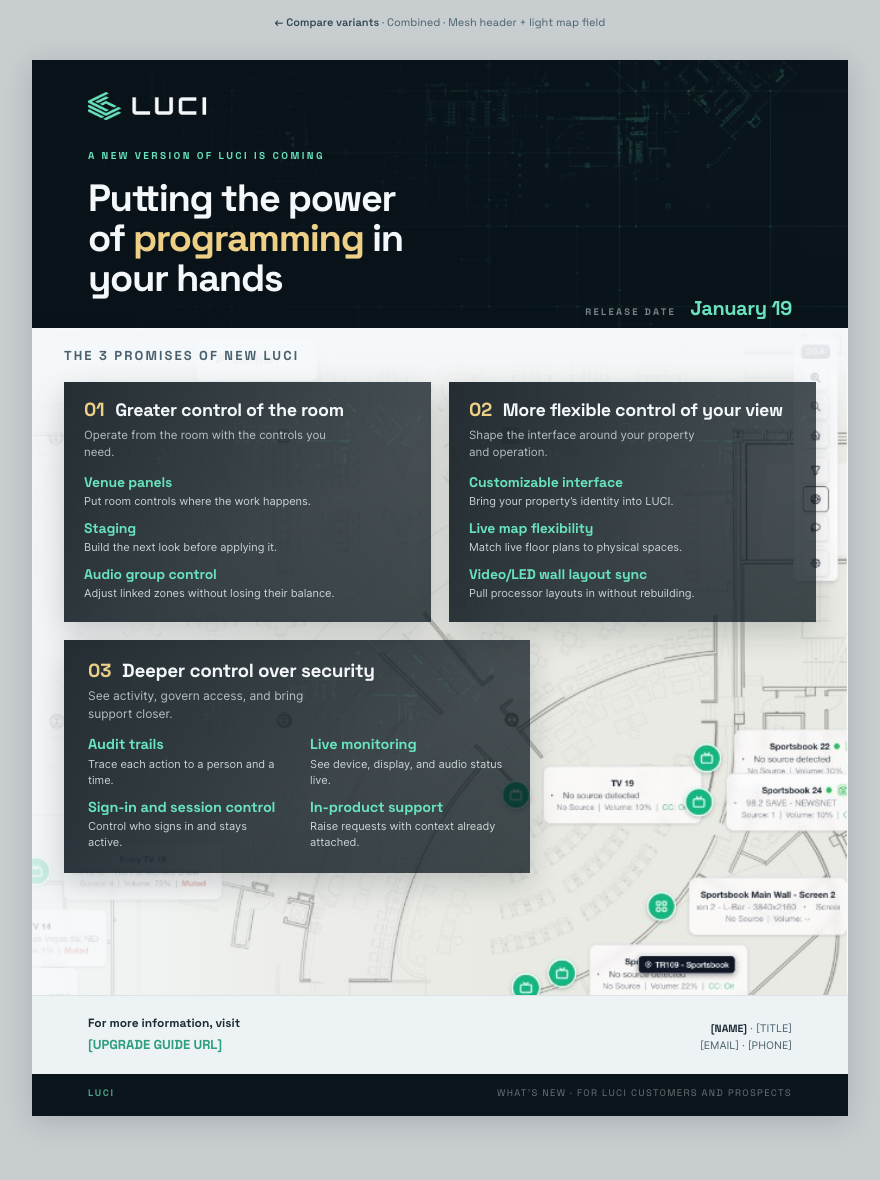
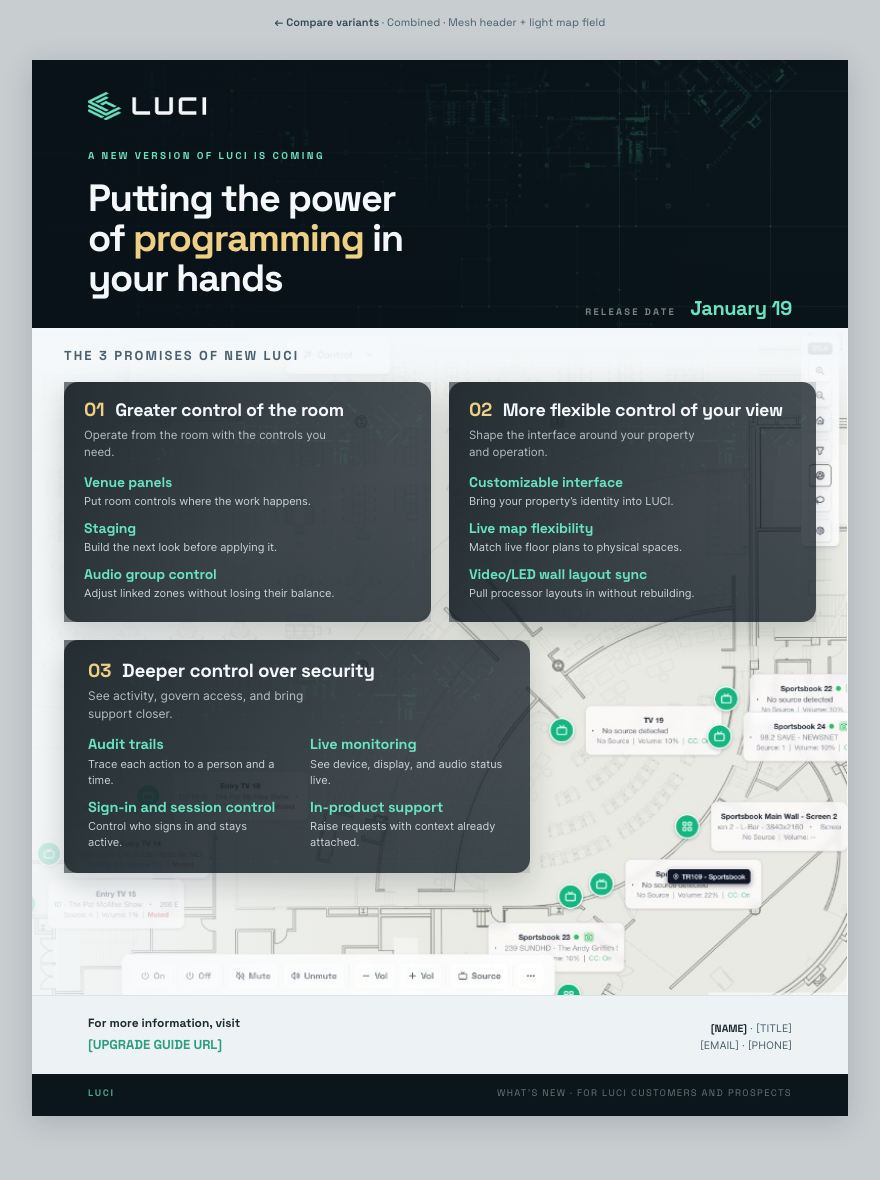
What's New one-pager: soften card edges, restore full map
Cards get a 14px radius — within brand guidelines (cards/modules
12-24px) and softens the edge against the map without abandoning the
de-boxed aesthetic. No paper mat; the translucent navy + mesh still
lets the floorplan read through.

Map reverted to full visibility (inset:0, height:100%, object-position
100% 100%) so the lower endpoints and the bottom of the sportsbook
arc are back. The control bar returns with them — it is the live
product UI; the cards now sit calmer above it.

diff --git a/LUCI Systems Design System/ui_kits/sales/new-luci-whats-new-onepager-flow-c.html b/LUCI Systems Design System/ui_kits/sales/new-luci-whats-new-onepager-flow-c.html
@@ -59,10 +59,10 @@ body{font-family:var(--font-body);background:#c8cdd0;color:var(--ink);font-size:
 
 /* ── FIELD — map stays the canvas; promises sit as dark plates ───────── */
 .field{position:relative;flex:1 1 auto;min-height:0;overflow:hidden;background:#F3F4F2}
-/* Taller than the field and anchored to the top, so the bottom control bar
-   crops off — it reads as a different UI and pulls the eye off the copy. */
-.field__shot{position:absolute;top:0;bottom:auto;left:0;right:0;z-index:0;pointer-events:none;
-  width:100%;height:116%;object-fit:cover;object-position:100% 0%}
+/* Full map visible — the backwards L (right rail + bottom endpoints) is the
+   product proof. The control bar is the live UI; the cards sit above it. */
+.field__shot{position:absolute;inset:0;z-index:0;pointer-events:none;
+  width:100%;height:100%;object-fit:cover;object-position:100% 100%}
 /* Lift the map where the plates sit so the drawing reads under them,
    and keep the lower-right quadrant clean for the live UI. */
 /* Wash the top band so the label sits on clean paper, and fade the left
@@ -89,6 +89,7 @@ body{font-family:var(--font-body);background:#c8cdd0;color:var(--ink);font-size:
    Translucent so the map shows through — the edge is soft because the
    map reads through the plate, not because of a paper mat. */
 .p{position:relative;color:var(--off-white);padding:18px 20px 20px;
+  border-radius:14px;
   background:linear-gradient(152deg,
     rgba(10,22,28,0.74) 0%, rgba(6,18,26,0.68) 60%, rgba(10,22,28,0.74) 100%);
   box-shadow:0 12px 28px rgba(10,22,28,0.18)}
